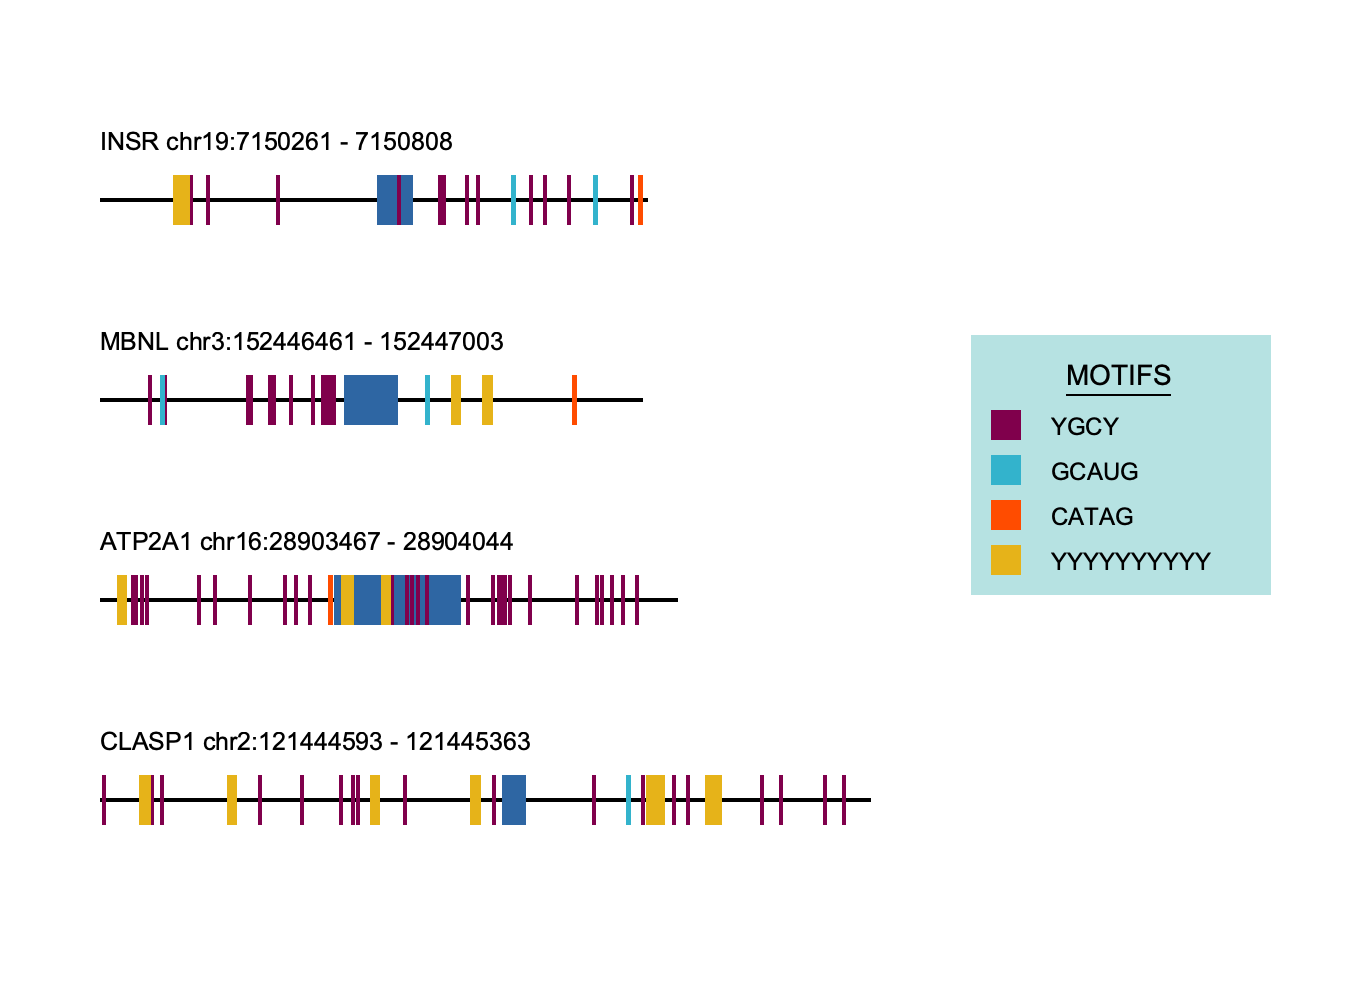
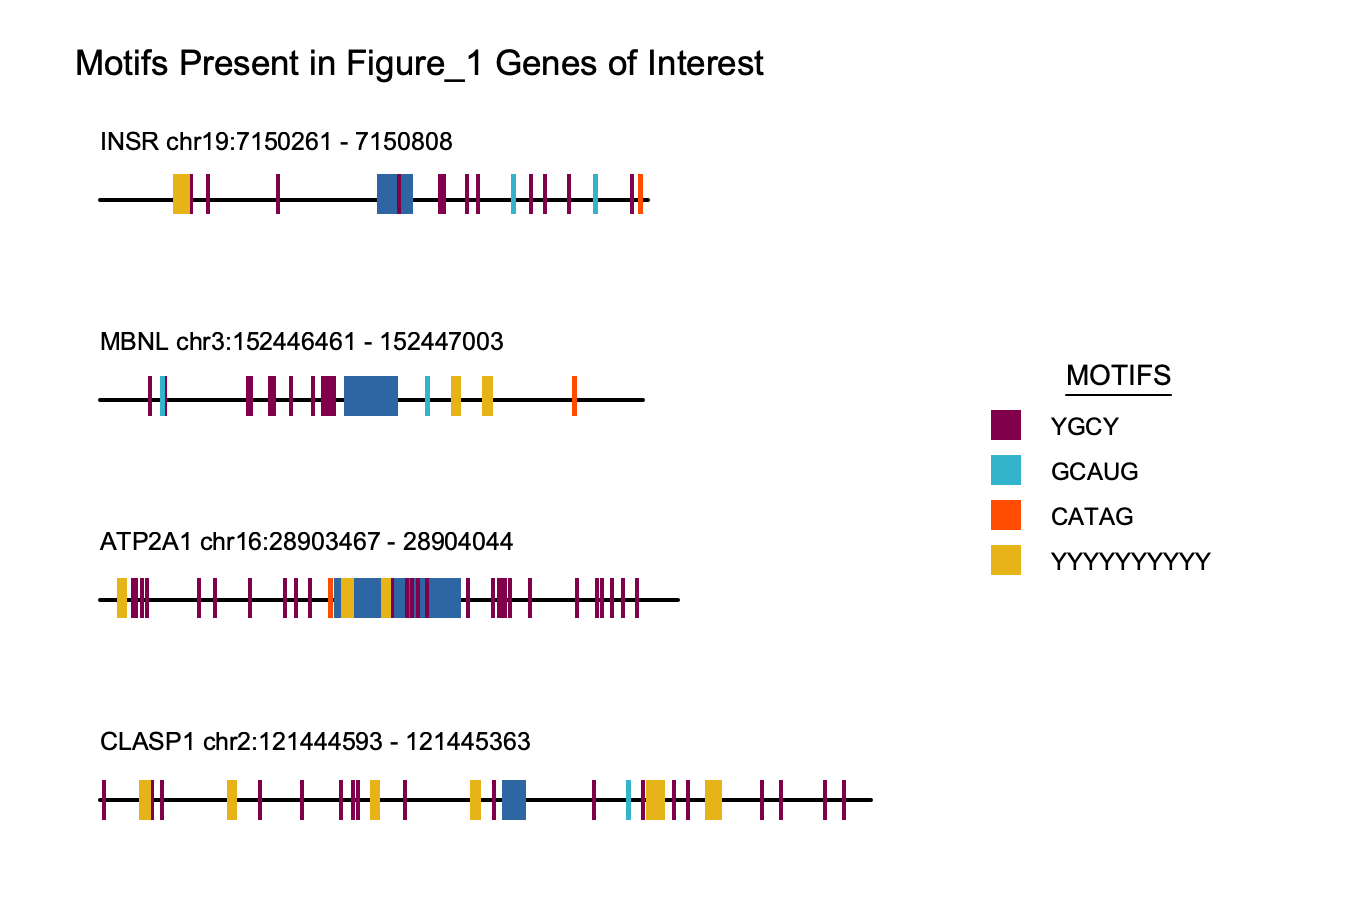
update motif-mark

diff --git a/motif-mark-oop.py b/motif-mark-oop.py
@@ -91,9 +91,9 @@ class RegionOfInterest():
         self.chrom = chrom
         self.start_pos = start_pos
         self.end_pos = end_pos
-        self.seqtype = None
+        self.type_of_seq = None
         self.introns = None
-        self.exon = None
+        self.exons = None
         self.motif_positions = None
 
     ##Methods##
@@ -110,7 +110,7 @@ class RegionOfInterest():
         self.exon_end = exon_end
     def exon_obj(self):
         '''generate a new object of the exon class to save as an attribute attached to region of interest'''
-        self.exon = Exon(self.sequence[self.exon_start:self.exon_end])
+        self.exons = Exon(self.sequence[self.exon_start:self.exon_end])
 
     def intron_obj(self):
         '''generate intron objects from locations where exons are not present'''
@@ -164,12 +164,12 @@ class Drawing():
 
     ##Methods##
     def draw_visualization(self):
-        """Uses PyCairo to draw motifs on sequences and save as PNG."""
-        number_drawings = len(self.to_draw)
-        height_img = (number_drawings+1) * 200
+        """Uses PyCairo to draw motifs on sequences and save as PNG.""" 
         lengths = [len(seqs.sequence) for seqs in self.to_draw]
         longest_seq = max(lengths)
         width_img = longest_seq + 600
+        number_drawings = len(self.to_draw)
+        height_img = (number_drawings+1) * 180
         WIDTH, HEIGHT = width_img, height_img
         
         surface = cairo.ImageSurface(cairo.FORMAT_ARGB32, WIDTH, HEIGHT)
@@ -181,6 +181,7 @@ class Drawing():
         for i, seq in enumerate(self.to_draw):
             sequence_len = len(seq.sequence)
             ctx.set_line_width(4)
+            ctx.set_line_cap(cairo.LINE_CAP_ROUND)
             ctx.set_source_rgb(0,0,0)
             ctx.move_to(100,(200 * (i+1)))
             ctx.line_to(sequence_len + 100, (200 * (i+1)))
@@ -192,9 +193,9 @@ class Drawing():
             exon_end = seq.exon_end
             exonlength = exon_end - exon_start
 
-            #exon box dimensions, colors, etc.
+            #exons box dimensions, colors, etc.
             ctx.set_source_rgb(0.18, 0.40, 0.64) #18, 40, 64
-            ctx.rectangle(float(exon_start + 100), 175*(i+1)+(25*i), float(exonlength), 50)        
+            ctx.rectangle((exon_start + 100), 174*(i+1)+(28*i), (exonlength), 40)        
             ctx.fill()
         
         #draw motifs, color code by motif
@@ -209,7 +210,7 @@ class Drawing():
                 for location in motifs[motif]:
                     motif_start = location[1][0]
                     motif_end = location[1][1]
-                    ctx.rectangle(float(motif_start + 100), 175 * (i+1)+(25*i), float(motif_end - motif_start), 50)        
+                    ctx.rectangle((motif_start + 100), 174 * (i+1)+(28*i), (motif_end - motif_start), 40)        
                     ctx.fill()
 
         #label each sequence with gene name, start and end position, and chromosome
@@ -223,26 +224,31 @@ class Drawing():
 
             ctx.set_source_rgb(0, 0, 0)
             ctx.set_font_size(25)
-            ctx.select_font_face("Arial",cairo.FONT_SLANT_NORMAL, cairo.FONT_WEIGHT_BOLD)
+            ctx.select_font_face("Arial",cairo.FONT_SLANT_NORMAL)
             ctx.move_to(100,150*(i+1)+(50*i))
             ctx.show_text(f"{gene_name} chr{chrom}:{start_pos} - {end_pos}")
             ctx.stroke()
 
-        #make key for motifs present
-        ctx.set_source_rgb(0.713, 0.886, 0.886) #182, 226, 226
-        ctx.rectangle(float(longest_seq+200), 335, 300, 260)        
-        ctx.fill()
+        output_filename = fasta_file[:-6]
+        #title for motif mark image
+        ctx.set_source_rgb(0,0,0)
+        ctx.set_font_size(35)
+        ctx.select_font_face("Arial", cairo.FONT_SLANT_NORMAL)
+        ctx.move_to(75, 75)
+        ctx.show_text(f"Motifs Present in {output_filename} Genes of Interest")
+
         #title for legend
         ctx.set_source_rgb(0,0,0)
         ctx.set_font_size(28)
-        ctx.select_font_face("Arial",cairo.FONT_SLANT_NORMAL, cairo.FONT_WEIGHT_BOLD)
-        ctx.move_to(float(longest_seq+295),385)
+        ctx.select_font_face("Arial",cairo.FONT_SLANT_NORMAL)
+        ctx.move_to((longest_seq+295),385)
         ctx.show_text("MOTIFS")
         #underline "MOTIFS" legend title
         ctx.set_line_width(2)
+        ctx.set_line_cap(cairo.LINE_CAP_ROUND)
         ctx.set_source_rgb(0,0,0)
-        ctx.move_to(float(longest_seq+295), 395)
-        ctx.line_to(float(longest_seq+400), 395)
+        ctx.move_to((longest_seq+295), 395)
+        ctx.line_to((longest_seq+400), 395)
         ctx.stroke()
 
         #draw color coded motif boxes
@@ -253,19 +259,18 @@ class Drawing():
 
                 #draw box for each motif within the key
                 ctx.set_source_rgb(colors[j][0], colors[j][1], colors[j][2])
-                ctx.rectangle(float(longest_seq+220), 365+((j+1)*45), float(30), 30)        
+                ctx.rectangle((longest_seq+220), 365+((j+1)*45), 30, 30)        
                 ctx.fill()
 
                 #draw text for label
                 ctx.set_source_rgb(0,0,0)
                 ctx.set_font_size(24)
                 ctx.select_font_face("Arial",cairo.FONT_SLANT_NORMAL, cairo.FONT_WEIGHT_BOLD)
-                ctx.move_to(float(longest_seq+280), 390+((j+1)*45))
+                ctx.move_to((longest_seq+280), 390+((j+1)*45))
                 ctx.show_text(f"{motif.upper()}")      
             break
 
         #write to png output
-        output_filename = fasta_file[:-6]
         surface.write_to_png(f"{output_filename}.png")
 
 
